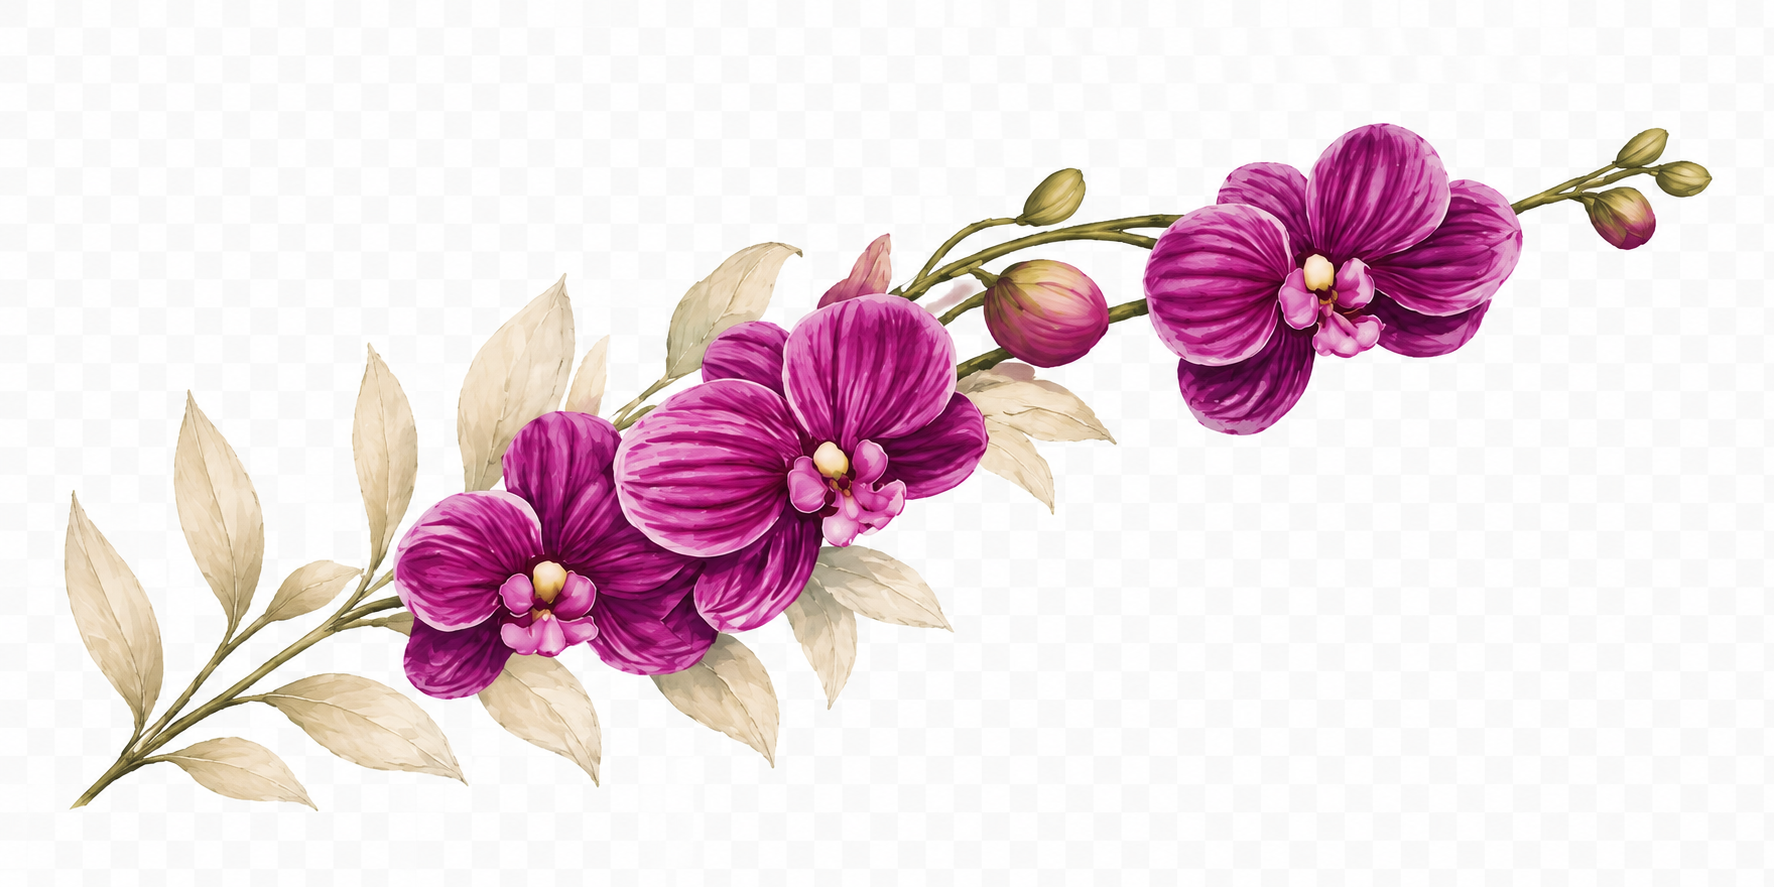
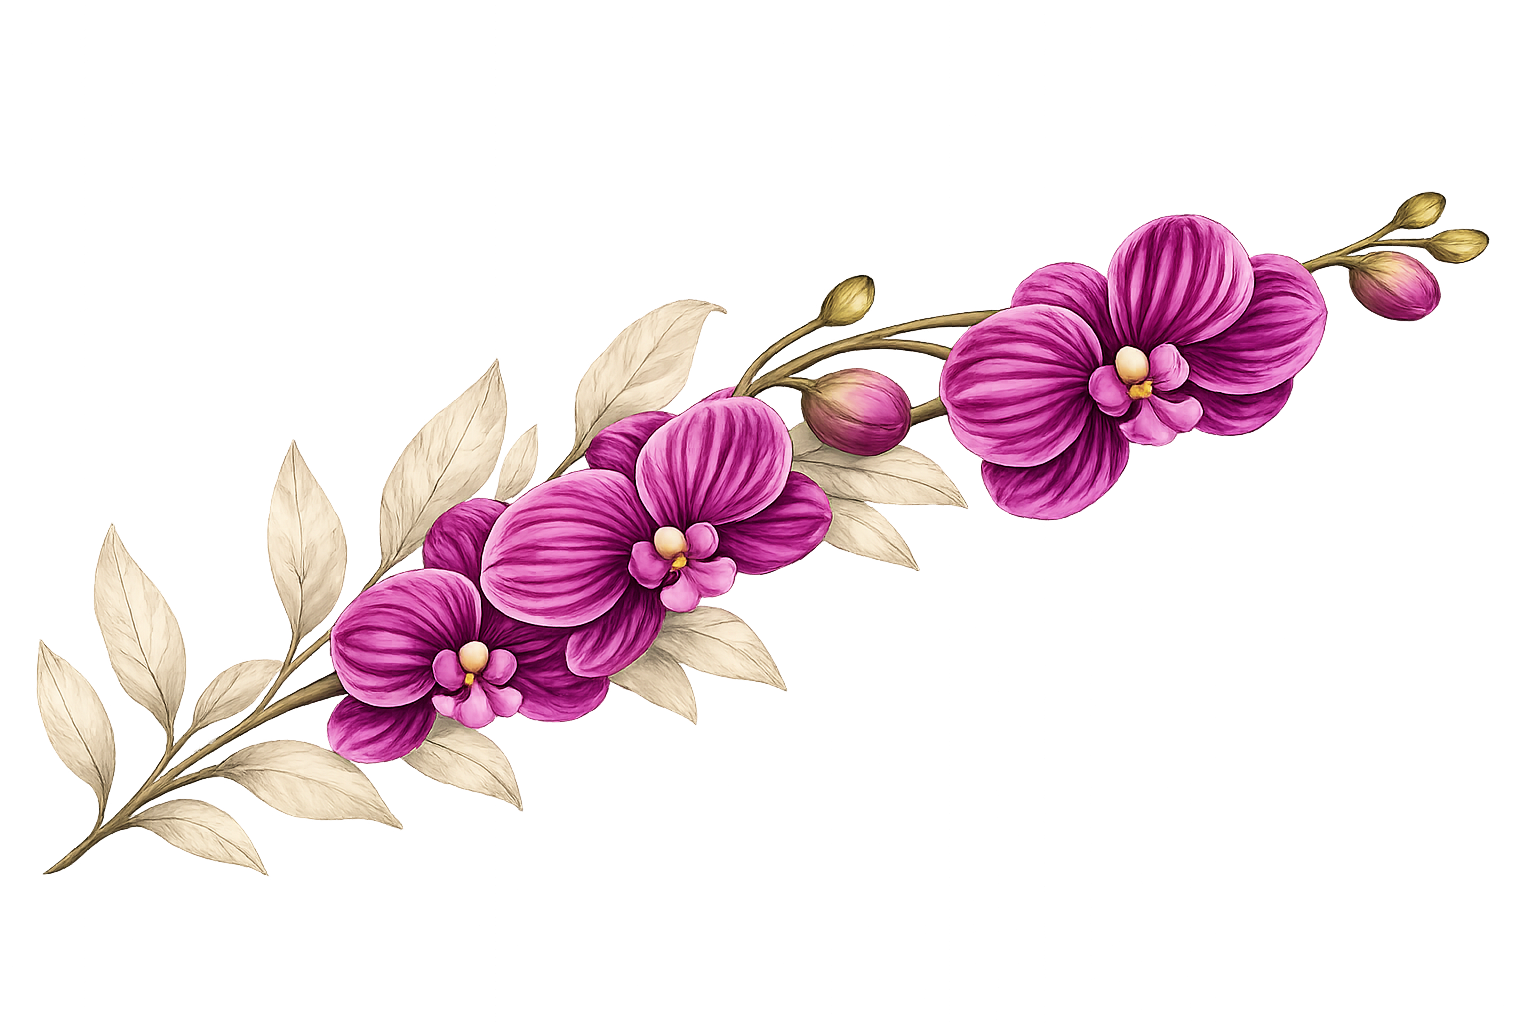
Added new section and images

Changed region(s): [[0.0, 0.1218, 0.9688, 0.9132], [0.0312, 0.8828, 0.0625, 0.9132]]

diff --git a/app/page.tsx b/app/page.tsx
@@ -52,7 +52,7 @@ export default function HomePage() {
       maps: "https://maps.app.goo.gl/CuRh41Kjcm89kWos5",
     },
     {
-      name: "Hotel Boutique & Spa Valle de Guadalupe",
+      name: "Hotel Boutique & Spa",
       reservation: "https://hoteldelvalledeguadalupe.com",
       maps: "https://maps.app.goo.gl/ZumrJ7N9UvELdJhg6",
     },
@@ -70,7 +70,7 @@ export default function HomePage() {
 
   const hotelsOutsideValley = [
     {
-      name: "City Express Plus by Marriott Ensenada",
+      name: "City Express Plus",
       reservation:
         "https://www.marriott.com/en-us/hotels/tijpe-city-express-plus-ensenada/overview/?scid=f2ae0541-1279-4f24-b197-a979c79310b0",
       maps: "https://maps.app.goo.gl/Svn58FgvWkYBegyx6",
@@ -152,7 +152,9 @@ export default function HomePage() {
 
       {isOpen && (
         <>
-          <WavySection>
+          <WavySection
+          topFlower="../images/orchid-top.png"
+          bottomFlower="../images/orchid-bottom.png">
           {/* COUPLE SECTION */}
           <section
             id="novios"
@@ -210,7 +212,8 @@ export default function HomePage() {
             </div>
           </section>
 
-          <WavySection>
+          <WavySection
+            bottomFlower="">
           {/* DETAILS SECTION */}
           <section
             id="detalles"
@@ -222,7 +225,7 @@ export default function HomePage() {
                 <img
                   src="/images/Iniciales.png"
                   alt="Decoración floral"
-                  className="w-full max-w-lg object-contain"
+                  className="w-32 md:w-48 lg:w-64 object-contain"
                 />
               </div>
 
@@ -239,10 +242,12 @@ export default function HomePage() {
                     className={`${bodoni.className} text-2xl text-gray-700 leading-relaxed space-y-4`}
                   >
                     
-                    <p>3:00 PM — Misa en X de la Madre</p>
-                    <p>4:30 PM — Rompe Hielo</p>
-                    <p>5:00 PM — Recepción y Fiesta</p>
-                    <p>Agradecemos su comprensión al asistir sin niños</p>
+                    <p>3:00 PM — Ceremonía</p>
+                    <p>4:30 PM — Cóctel</p>
+                    <p>5:00 PM — Recepción</p> 
+                    <p>6:30 PM - Cena</p>
+                    <p>8:00 PM - Fiesta</p>
+                    <p className="underline">Respetuosamente no niños</p>
                   </div>
                 </div>
 
@@ -309,29 +314,21 @@ export default function HomePage() {
                     className={`${bodoni.className} text-2xl leading-relaxed space-y-4`}
                   >
                     <p>
-                      Hombres: Formal {"(no tenis)"}<br/>
-                      Mujeres: Formal {"(vestido largo)"} <br/>
-                      Evitar colores:
-                      <span className="font-semibold">
-                        {" "}
-                        blanco, beige, rojo, y negro.
-                      </span>
+                      - Formal <br/>
+                      - Mujeres: Vestido Largo<br/>
+                      - Hombres: No tenis
                     </p>
 
                     <p>
-                      Como guía, les compartimos nuestra{" "}
                       <a
                         href="https://pin.it/38qXehQiH"
                         target="_blank"
                         rel="noopener noreferrer"
-                        className="underline hover:text-white transition"
+                        className="underline hover:text-white underline transition text-blue-700"
                       >
-                        paleta de colores
-                      </a>{" "}
-                      sugerida.
+                        Guía de colores
+                      </a>
                     </p>
-
-                    <p>¡Gracias por acompañarnos en este día tan especial!</p>
                   </div>
                 </div>
               </div>
@@ -371,7 +368,8 @@ export default function HomePage() {
             </div>
           </section>
 
-          <WavySection>
+          <WavySection
+            bottomFlower="../images/olive_branch.png">
           <section id="hospedaje" className="px-6 py-24 text-center">
             <div className="mx-auto w-full max-w-5xl space-y-16">
               <div className="space-y-4">
@@ -442,6 +440,52 @@ export default function HomePage() {
             </div>
           </section>
           </WavySection>
+
+          <WavySection>
+            <section>
+              <div className="w-full max-w-7xl mx-auto grid md:grid-cols-[40%_60%] gap-12 items-center">
+                <div className="flex justify-start">
+                  <div className="bg-[#FFFDF8] p-5 rounded-3xl shadow-2xl border border-gray-200">
+                  <img
+                    src="/images/downtown.jpg"
+                    alt="Decoración floral"
+                    className="rounded-2xl object-cover w-full max-w-md aspect-[4/5]"
+                  />
+                  </div>
+                </div>
+
+                <div className="space-y-6">
+                  <div className="flex items-center justify-start gap-4 mb-8">
+                    <h2 className={`${meow.className} text-7xl font-bold`}>
+                      Regalos
+                    </h2>
+
+                    <img
+                      src="/images/icon-gift.png"
+                      alt="Wedding dress"
+                      className="h-14 w-14 object-contain"
+                    />
+                  </div>
+                  <h2 className={`${cormorant.className} text-4xl leading-tight font-bold`}>
+                    Les dejamos informacion sobre los regalos
+                  </h2>
+
+                  <div className="space-y-6">
+                    <div
+                      className={`${cormorant.className} text-2xl text-gray-700 leading-relaxed space-y-4`}
+                    >
+                      <p>
+                        Escribir lo de los regalos
+                      </p>
+                    </div>
+                  </div>
+  
+                </div>
+
+              </div>
+            </section>
+          </WavySection>
+
           <WavySection>
             <RSVPSection />
           </WavySection>

diff --git a/components/WavySection.tsx b/components/WavySection.tsx
@@ -4,49 +4,44 @@ type WavySectionProps = {
   children: React.ReactNode;
   className?: string;
   contentClassName?: string;
+  topFlower?: string;
+  bottomFlower?: string;
 };
 
 export default function WavySection({
   children,
   className = "",
   contentClassName = "",
+  topFlower,
+  bottomFlower,
 }: WavySectionProps) {
   return (
-    <section className="w-full bg-[#FFFAEE] px-2 py-8 md:px-6 md:py-12">
-      <div className="relative mx-auto w-[98vw] max-w-[1800px] bg-[#FFFAEE] px-6 py-10 md:px-12 md:py-14">
-        {/* Wavy outline */}
-        <svg
-          className="pointer-events-none absolute inset-4 h-[calc(100%-2rem)] w-[calc(100%-2rem)] md:inset-6 md:h-[calc(100%-3rem)] md:w-[calc(100%-3rem)]"
-          viewBox="0 0 100 100"
-          preserveAspectRatio="none"
-          aria-hidden="true"
-        >
-          <path
-            d="
-              M 6 5
-              C 14 3, 20 7, 28 5
-              S 42 7, 50 5
-              S 64 7, 72 5
-              S 86 3, 94 5
-              C 97 18, 93 28, 95 40
-              S 97 62, 95 74
-              S 97 88, 94 95
-              C 84 97, 76 93, 66 95
-              S 48 97, 38 95
-              S 20 97, 6 95
-              C 3 82, 7 72, 5 60
-              S 3 38, 5 26
-              S 3 12, 6 5
-            "
-            fill="none"
-            stroke="#222222"
-            strokeWidth="1"
-            vectorEffect="non-scaling-stroke"
-          />
-        </svg>
+    <section
+      className={`w-full bg-[#FFFAEE] px-2 py-8 md:px-6 md:py-12 ${className}`}
+    >
+      <div className="relative mx-auto w-full max-w-[1800px] border-2 border-[#222222] p-4 md:p-5">
+        <div className="relative overflow-hidden border border-[#222222] bg-[#FFFAEE] px-8 py-12 md:px-16 md:py-16">
+          {topFlower && (
+            <img
+              src={topFlower}
+              alt=""
+              aria-hidden="true"
+              className="pointer-events-none absolute left-0 top-0 z-0 w-32 md:w-48 lg:w-72"
+            />
+          )}
 
-        <div className="relative z-10">
-          {children}
+          {bottomFlower && (
+            <img
+              src={bottomFlower}
+              alt=""
+              aria-hidden="true"
+              className="pointer-events-none absolute bottom-0 right-0 z-0 w-32 md:w-48 lg:w-72"
+            />
+          )}
+
+          <div className={`relative z-10 ${contentClassName}`}>
+            {children}
+          </div>
         </div>
       </div>
     </section>

diff --git a/components/RSVPSection.tsx b/components/RSVPSection.tsx
@@ -159,7 +159,10 @@ export default function RSVPSection() {
     <section id="rsvp" className={`${bodoni.className} py-24 px-6 flex bg-[#FFFAEE] justify-center`}>
       <div className="w-full max-w-xl space-y-6">
         <div className="text-center space-y-3">
-          <h1 className={`${meow.className} text-4xl text-[#222222] font-bold`}>RSVP</h1>
+          <p>
+            <h2 className={`${meow.className} text-4xl text-[#222222] font-bold`}>RSVP</h2>
+          </p>
+          
           <h3 className={`${cormorant.className} text-2xl text-[#222222]`}>¡Hola, {guest.name}! 💌</h3>
 
           {guest.message && (